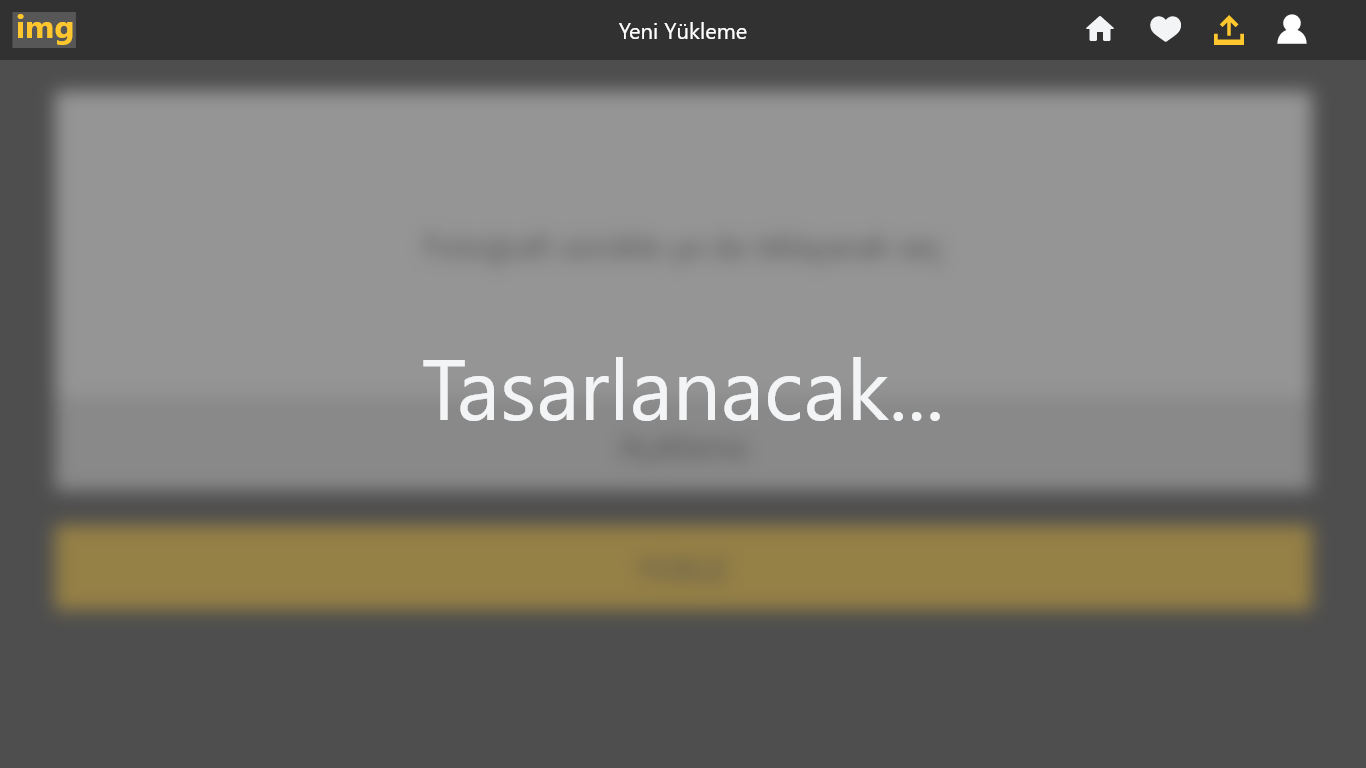
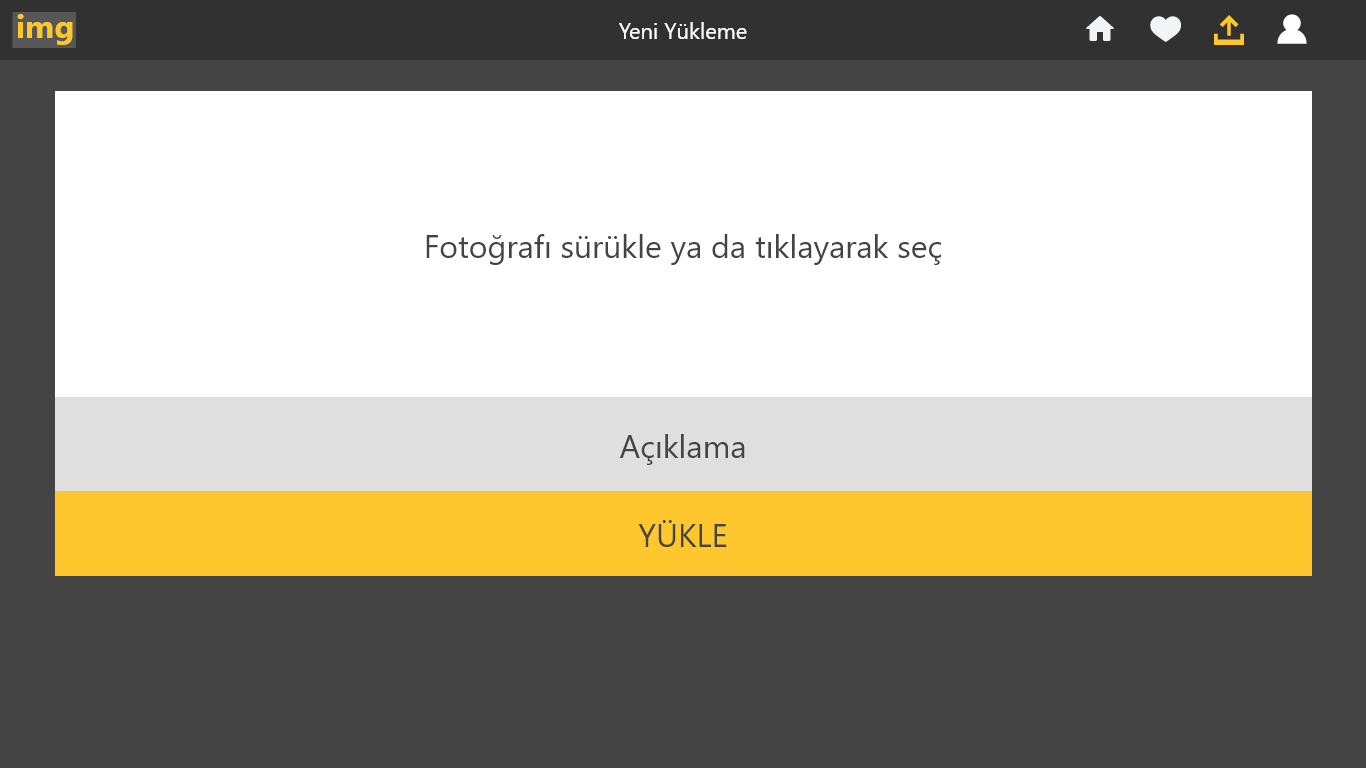
Yükleme sayfası tamamlandı, profil sayfası geçici tasarımı eklendi

diff --git a/server/src/main/webapp/WEB-INF/view/frontend/src/pages/Upload.js b/server/src/main/webapp/WEB-INF/view/frontend/src/pages/Upload.js
@@ -1,14 +1,21 @@
-import React from "react";
+import React, { useState } from "react";
 import DivBackground from "../components/DivBackground";
 import Header from "../components/Header";
 import Input from "../components/Input";
 import axios from "axios";
+import Dropzone from "react-dropzone";
+
+// TODO: tasarım belki revise edilebilir pek güzel değil
 
 export default function Upload() {
+  const [image, setImage] = useState();
+
   function handleSubmit(event) {
     event.preventDefault();
     const formData = new FormData(event.target);
-
+    if (!formData.has("image")) {
+      formData.append("image", image, image.name);
+    }
     axios
       .post("/api/v1/image/upload", formData)
       .then((result) => {
@@ -26,11 +33,59 @@ export default function Upload() {
       <Header title="Yeni Yükleme" />
       <DivBackground backgroundColor="#444">
         <form style={{ margin: "20px" }} onSubmit={handleSubmit}>
-          <Input type="file" id="image" />
-          <br />
-          <Input type="text" id="description" />
-          <button className="button" style={{ width: "100%" }}>
-            YENİ YÜKLE
+          <Dropzone
+            maxFiles={1}
+            multiple={false}
+            canCancel={false}
+            accept=".jpeg,.jpg,.png"
+            onDrop={(acceptedFiles) => {
+              if (acceptedFiles.length === 0) return;
+
+              let img = acceptedFiles[0];
+              setImage(
+                Object.assign(img, { preview: URL.createObjectURL(img) })
+              );
+              console.log(acceptedFiles);
+            }}
+          >
+            {({ getRootProps, getInputProps, isDragActive }) => (
+              <div {...getRootProps()} className="div-upload clickable">
+                <input {...getInputProps()} id="image" name="image" />
+                {image ? (
+                  <img
+                    src={image.preview}
+                    style={{
+                      maxWidth: "60%",
+                      objectFit: "contain",
+                    }}
+                  />
+                ) : (
+                  <p style={{ alignSelf: "center" }}>
+                    {!isDragActive &&
+                      "Bu alana fotoğraf sürükle ya da tıklayarak seç"}
+                    {isDragActive && "Fotoğraf bırakılabilir..."}
+                  </p>
+                )}
+              </div>
+            )}
+          </Dropzone>
+          <Input
+            type="text"
+            id="description"
+            style={{
+              border: "0px",
+              borderRadius: "0px",
+              width: "100%",
+              backgroundColor: "#DFDFDF",
+              textAlign: "center",
+            }}
+            placeholder="Açıklama"
+          />
+          <button
+            className="button"
+            style={{ width: "100%", borderRadius: "0px" }}
+          >
+            YÜKLE
           </button>
         </form>
       </DivBackground>

diff --git a/server/src/main/webapp/WEB-INF/view/frontend/src/pages/Profile.js b/server/src/main/webapp/WEB-INF/view/frontend/src/pages/Profile.js
@@ -5,6 +5,8 @@ import Header from "../components/Header";
 import ImageBox from "../components/ImageBox";
 import ResponsiveMasonry from "../components/ResponsiveMasonry";
 
+// TODO: tasarım iyileştirilmeli çirkin duruyor
+
 export default function Profile() {
   const [images, setImages] = useState([]);
   const [likes, setLikes] = useState([]);

diff --git a/server/src/main/webapp/WEB-INF/view/frontend/src/assets/style/style.css b/server/src/main/webapp/WEB-INF/view/frontend/src/assets/style/style.css
@@ -188,3 +188,15 @@ a {
 
 .imagebox-img:hover {
 }
+
+.div-upload {
+  background-color: white;
+  display: flex;
+  width: 100%;
+  text-align: center;
+  min-height: 200px;
+  justify-content: center;
+  border: 0px;
+  overflow: hidden;
+  outline: 0px;
+}

diff --git a/server/src/main/java/com/imgpaylas/server/controller/IndexController.java b/server/src/main/java/com/imgpaylas/server/controller/IndexController.java
@@ -6,7 +6,7 @@ import org.springframework.web.bind.annotation.GetMapping;
 @Controller
 public class IndexController
 {
-	@GetMapping({"/login", "/register", "/", "/home", "/likes", "/profile"}) // TODO: daha iyi bir yol bulunmalı
+	@GetMapping({"/login", "/register", "/", "/home", "/likes", "/profile", "/upload"}) // TODO: daha iyi bir yol bulunmalı
 	public String index()
 	{
 		return "index.html";
